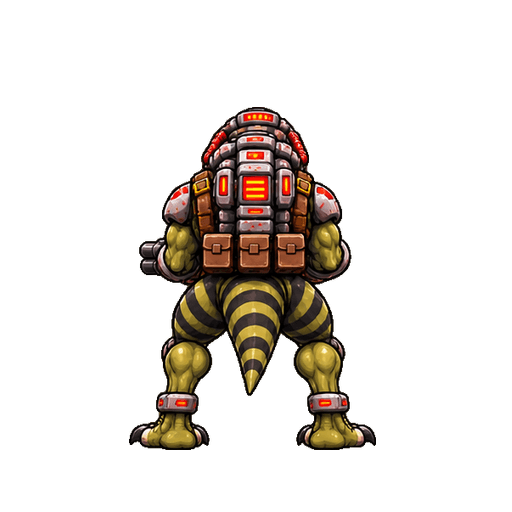
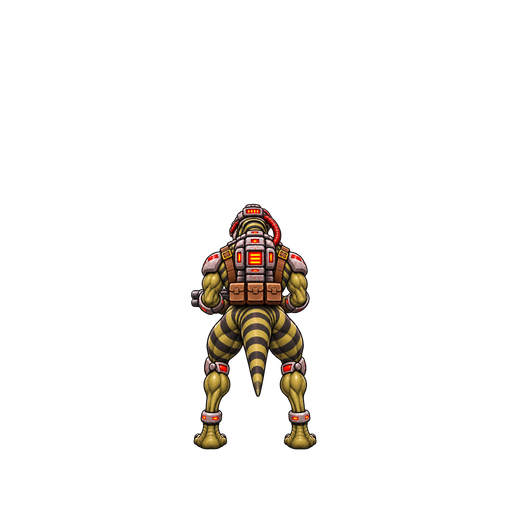
39T7.8: install rear stance and gaits with reptilian sole anatomy

Changed region(s): [[0.25, 0.1875, 0.75, 0.9062]]

diff --git a/app/studio/character-lab/page.tsx b/app/studio/character-lab/page.tsx
@@ -23,15 +23,15 @@ export default function CombatLab(){
  return <main style={{minHeight:"100vh",background:"#08101b",color:"#f5fbff",fontFamily:"Arial",padding:"max(25px,env(safe-area-inset-top)) 20px"}}>
   <div style={{maxWidth:800,margin:"auto"}}>
    <a href="/studio" style={{color:"#89e9f2"}}>← BACK TO STUDIO</a>
-   <p style={{color:"#ff8d9e",letterSpacing:2,fontSize:12}}>GOD MODE / BUILD 39T7.7 PLAYTEST</p>
+   <p style={{color:"#ff8d9e",letterSpacing:2,fontSize:12}}>GOD MODE / BUILD 39T7.8 PLAYTEST</p>
    <h1>COMBAT LAB</h1>
    <a href="/raptor-animation-review.html" style={{color:"#89e9f2"}}>Review all run and slide frames</a>
    <p>Both fighters use the newer XYZ combat engine. This is a test build, not a production character unlock.</p>
    <div style={{display:"grid",gridTemplateColumns:"repeat(auto-fit,minmax(230px,1fr))",gap:14,marginTop:25}}>
     <button style={button} onClick={()=>setFighter("jade")}>JADE <small style={{display:"block",fontWeight:400,marginTop:10}}>Existing gameplay baseline</small></button>
-    <button disabled={artReady!==true} style={{...button,borderColor:"#ff925e",opacity:artReady?1:.5}} onClick={()=>setFighter("raptor")}>RAPTOR V2 <small style={{display:"block",fontWeight:400,marginTop:10}}>{artReady===null?"Loading Raptor artwork…":artReady?"Front-diagonal gait pilots · Other views under review":"Artwork failed to load — reload to retry"}</small></button>
+    <button disabled={artReady!==true} style={{...button,borderColor:"#ff925e",opacity:artReady?1:.5}} onClick={()=>setFighter("raptor")}>RAPTOR V2 <small style={{display:"block",fontWeight:400,marginTop:10}}>{artReady===null?"Loading Raptor artwork…":artReady?"Six gait pilots · Rear diagonals under review":"Artwork failed to load — reload to retry"}</small></button>
    </div>
-   <p style={{color:"#f5bf8e",fontSize:13,marginTop:24}}>Standing now has dedicated artwork in all eight directions. Left, right, front-left, and front-right movement have dedicated stalk and jog cycles; the other four slow directions remain provisional. Sprint continuity and firing-effect alignment are still under review. Use the pace selector with keyboard or touch to review the transitions. Controller stick pressure remains analog. Moving fire follows aim.</p>
+   <p style={{color:"#f5bf8e",fontSize:13,marginTop:24}}>Standing now has dedicated artwork in all eight directions. Left, right, front, back, front-left, and front-right movement have dedicated stalk and jog cycles; both rear-diagonal slow directions remain provisional. Sprint continuity and firing-effect alignment are still under review. Use the pace selector with keyboard or touch to review the transitions. Controller stick pressure remains analog. Moving fire follows aim.</p>
   </div>
  </main>;
 }

diff --git a/docs/raptor-39t7-anatomy-audit.md b/docs/raptor-39t7-anatomy-audit.md
@@ -1,18 +1,14 @@
 # 39T7 anatomy correction audit — 2026-11-05
 
-## Current status — 39T7.6 live
+## Current status — 39T7.7 live
 - Working branch: studio/39t7-anatomy-corrections.
-- Deployed code: 12f0f72244ebaeb4aeaa2211fbee240af9923988.
-- Railway deployment 1a4dd219-5a14-4799-965f-7debf2f49c60: SUCCESS; fresh lab39T7.6 and review128 paths confirmed.
-- Installed96 unique images plus32 run aliases. All8 directions have idle1/sprint4/slide3; right,left,front-right,front-left additionally have stalk4/jog4. Four other directions lack32 slow-gait images.
--39 anatomy pilot replacements installed: right12 including slides, left9, front-right9, front-left9. Static pilot acceptance is not full gameplay acceptance.
-- Live39T7.6 normalized digital diagonal test: front-right and front-left each painted jog0,1,2,3 at medium pace without entering sprint. Both painted stalk0,1,2,3 at light pace.
-- Evidence screenshot: raptor-39t7-6-diagonal-proof.jpg. Trace establishes painted phases, not anatomical quality or sustained-video verification. No physical controller available.
-- Open: old sprint continuity/proportions, remaining slides/idle, all-direction transition matrix, and muzzle/projectile origin above new gun barrel. See historical findings.
-- New direct-front standing7d3807eb and stalk candidates are UNINSTALLED. Visual phase mapping requires reordering: contactRIGHT8cc037bc; passingRIGHT-support8a02d09c; contactLEFT2db7b5b9; passingLEFT-support150b4b87. Original generation order was not safe playback order.
-- Direct-front jog3342c5c2 rejected as finished jog: insufficient posture distinction from stalk. Targeted chest/neck/hip correction underway.
-- Rear standing404acbf1 rejected for camera-facing claws. Correctedeb7267a1 provisional, uninstalled.
-- Completion NOT reached. Preserve all accepted existing work; do not claim every generated frame is accepted.
+- Deployed commit f92e5ae0623010eda210a40e8d3c70be1b72da60; Railway0f7c1a1a-4f40-4738-bea0-1fa53f49ca19 SUCCESS.
+- Fresh lab39T7.7/review136 paths verified.104unique images plus32run aliases. Five directions have dedicated stalk4/jog4: right,left,front-right,front-left,front.
+-48 anatomy pilot images installed across releases. Front9 passes static review and file/hash/border checks. No claim of full all-direction acceptance.
+- Normal touch front stalk0,1,2,3; mediumpace front jog0,1,2,3; touchmovement+T fire front jog+fire0,1,2,3; supported doubletapA+S frontslide0,1,2. After input release/aim adjustment, screenshot shows two-foot front standing.
+- Evidence: raptor-39t7-7-front-standing-proof.jpg (front pose+trace); raptor-39t7-7-front-live-proof.jpg shows left-facing standing after slide, NOT a front pose. Trace establishes painted phases, not sustained animation quality. No physical-controller hardware/video coverage.
+- Three rear directions lack24 dedicated slow-gait images. Rear set now staged below; both rear-diagonal masters generating. Existing sprint continuity/anatomy, other slides/recovery, muzzle/shot-origin registration, and full turn/fire/cancel/playback matrix remain open.
+- No completion claim. Prior status entries below are historical.
 
 ## Prior checkpoint record (historical; superseded by current status)
 
@@ -113,3 +109,6 @@ Front-left idle1/stalk4/jog4 pilot exported at fixed.2source scale with pelvisx5
 
 ## 39T7.7 staged front pilot
 Nine front assets: standing1/stalk4/jog4. Jog3342c5c2 rejected for upright posture; revised contactad3ce3b2, passingRIGHTecc64c6e, contactLEFT632042ef, passingLEFTab929d6a preserve moderate forward pitch and alternate thighs/support. Stalk passing poses reordered by anatomy. Contact2db7b5b9 rejected for clipped center-claw tip; repaired sourced5565271 preserves pose. Source-canvas scale .2 and shared pelvis/ground registration, faint alpha specks removed.9 transparent512PNGs validated hashes and empty borders; five-direction selection tests pass including fire phases, hysteresis, slide recovery, legacy anchors, normalized diagonal pace.104unique images+32aliases=136paths;48 anatomy pilot images across releases. Deployment and new front gameplay pending. Three rear directions still lack24slow-gait images. Rear contact5fe62685 and94afe0c5 rejected pending raised-foot repair (human/shoe-shaped sole instead of distinct reptilian digits); do not install. Other sprint/slide/firing-origin/fullplayback defects remain open.
+
+## 39T7.8 staged rear pilot
+Rear idle1/stalk4/jog4 now statically reviewed and exported with uniform.2source scale and pelvis/tail-root registration. Rejected first shoe-shaped sole attempts; corrected raised feet have three separate biological toe pads/claws. Sources/phase order and placement recorded in scripts/export-back-pilot.cjs.9transparent512PNGs pass hashes/clear borders; six-direction gait selection tests pass.112uniqueimages+32aliases=144paths;57 anatomy pilot images across releases. Rear-diagonal16slowframes remain absent.39T7.8 not yet deployed or gameplay-verified. Front39T7.7 remains live. UI inventory wording updated to six directions for next build.
